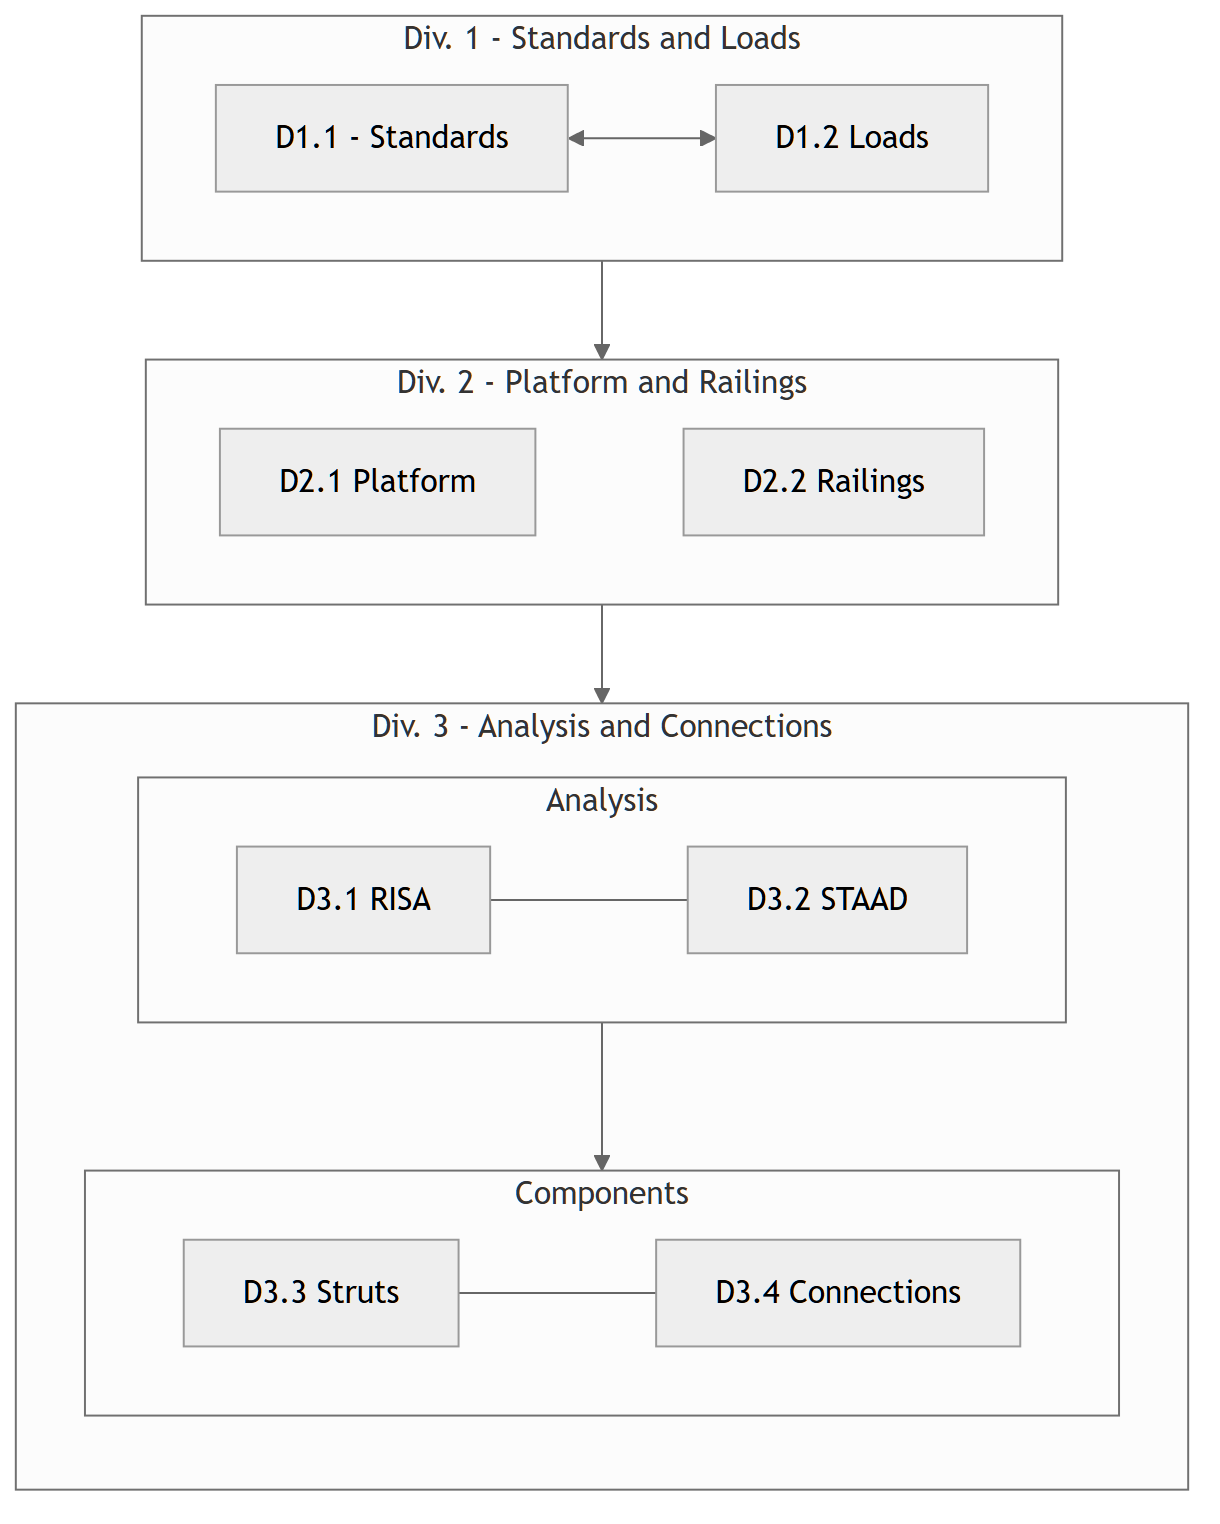
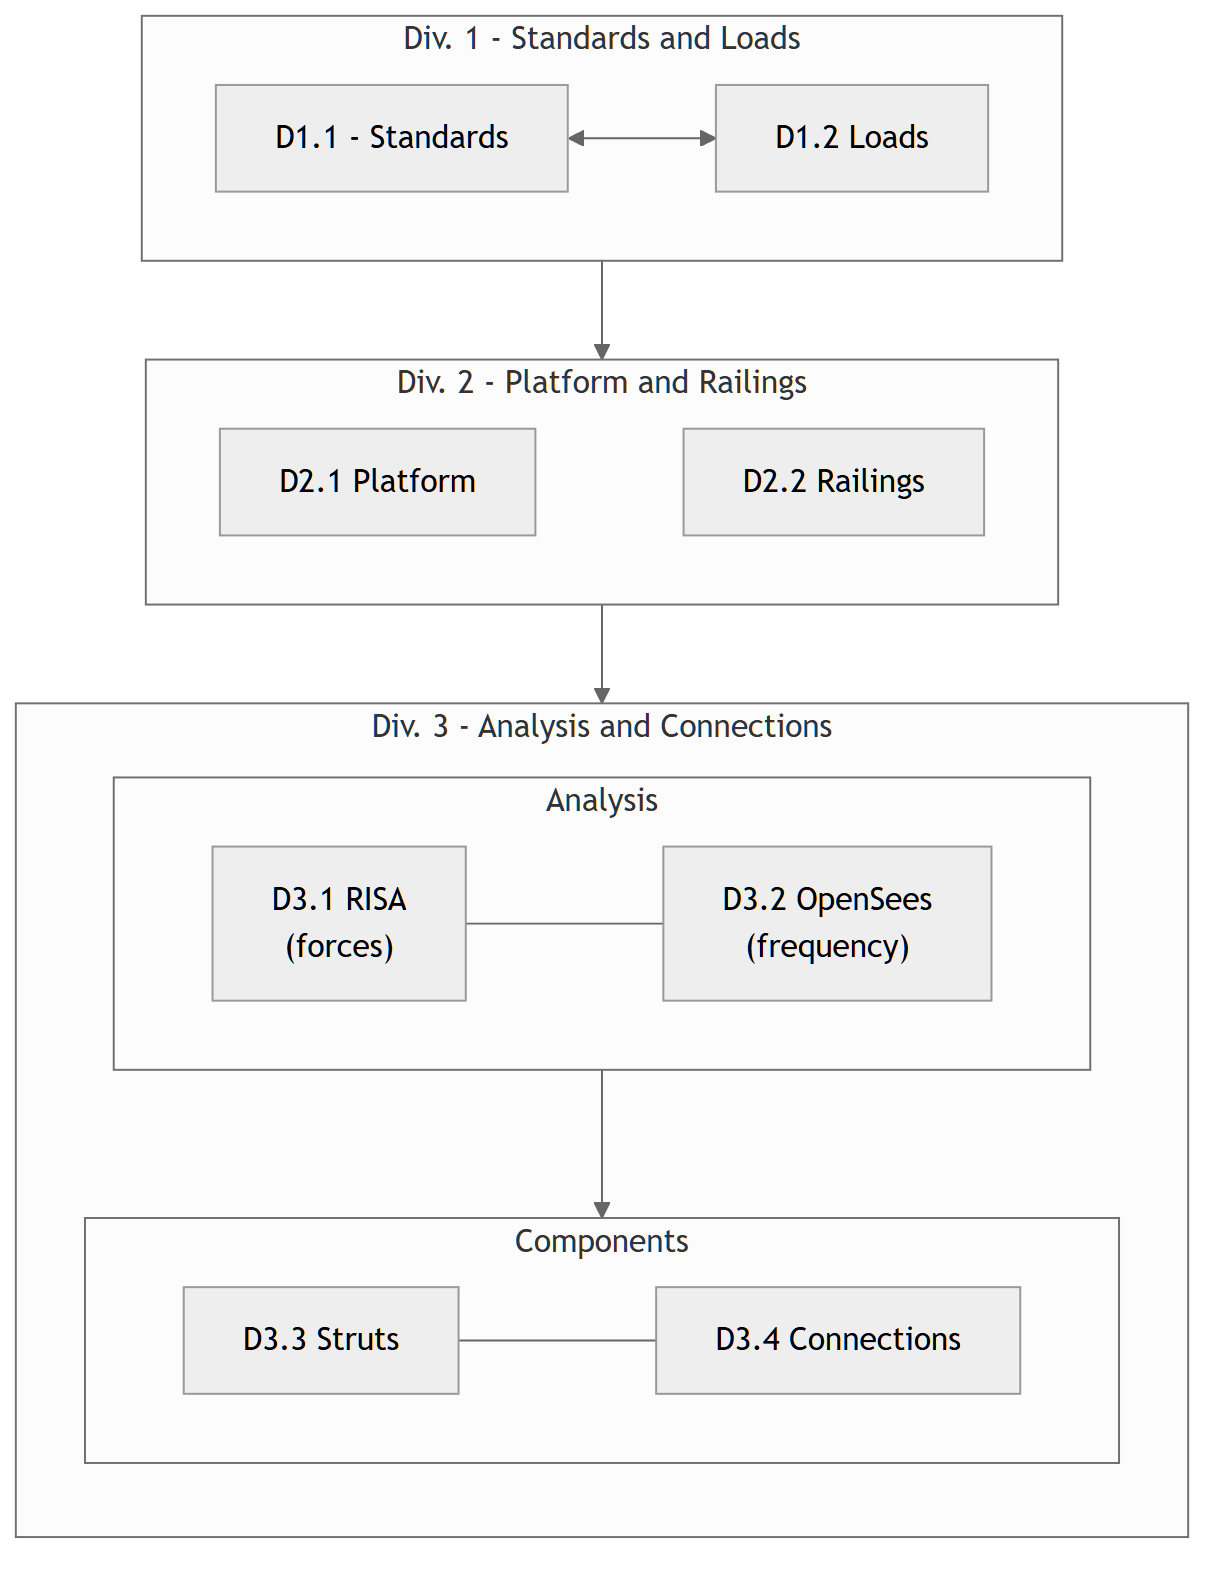
update a12

diff --git a/rivt-report/rvsrc/scripts/sectprop.py b/rivt-report/rvsrc/scripts/sectprop.py
@@ -1,0 +1,66 @@
+"""
+This file contains functions for calculating properties of rectangular
+sections.
+
+    - section(b,d) : section modulus
+    - inertia(b,d) : moment of interia
+
+"""
+
+
+def rectsect(b, d):
+    """section modulus of rectangle
+
+    Args:
+        b (float): width
+        d (float): depth
+
+    Returns:
+        float: section modulus
+    """
+    return b * d**2 / 6.0
+
+
+def rectinertia(b, d):
+    """moment of inertia of rectangle
+
+    Args:
+        b (float): width
+        d (float): depth
+
+    Returns:
+        float: inertia
+    """
+    return b * d**3 / 12.0
+
+
+def midspan_delta(ln, w, e, i):
+    """mid-span deflection of simply supported beam with UDL
+
+    Args:
+        l (float): span
+        w (float): uniform load
+        e (float): modulus of elasticity
+        i (float): moment of inertia
+
+    Returns:
+        float: mid-span deflection
+    """
+    return 5 * w * ln**4 / (384 * e * i)
+
+
+def bending_stress_udl(ln, w, b, d):
+    """Maximum bending stress in a simply supported beam with UDL.
+
+    Args:
+        ln (float): span
+        w (float): uniform load
+        b (float): beam width
+        d (float): beam depth
+
+    Returns:
+        float: maximum bending stress
+    """
+    moment = w * ln**2 / 8.0
+    section_modulus = rectsect(b, d)
+    return moment / section_modulus